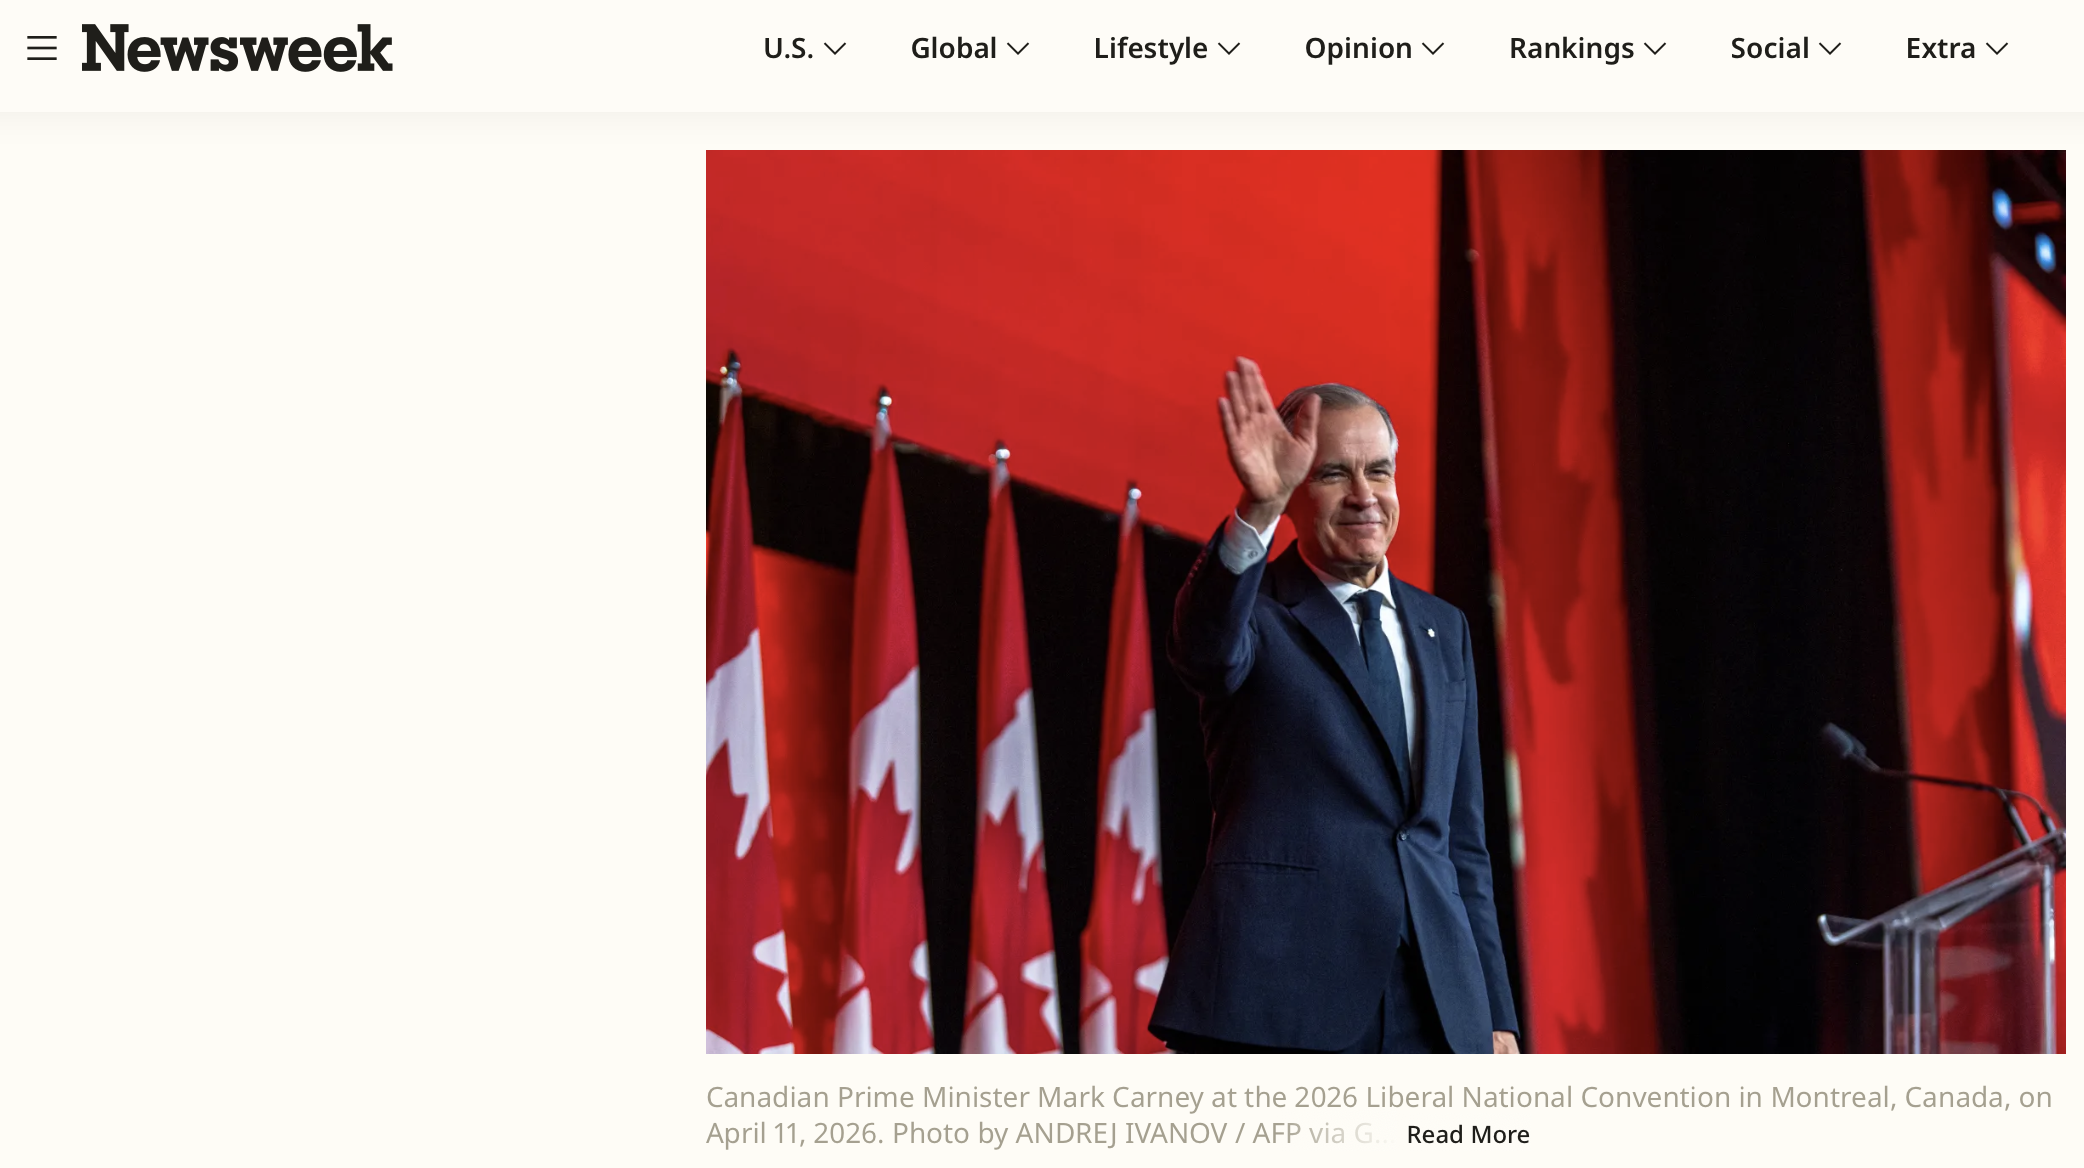
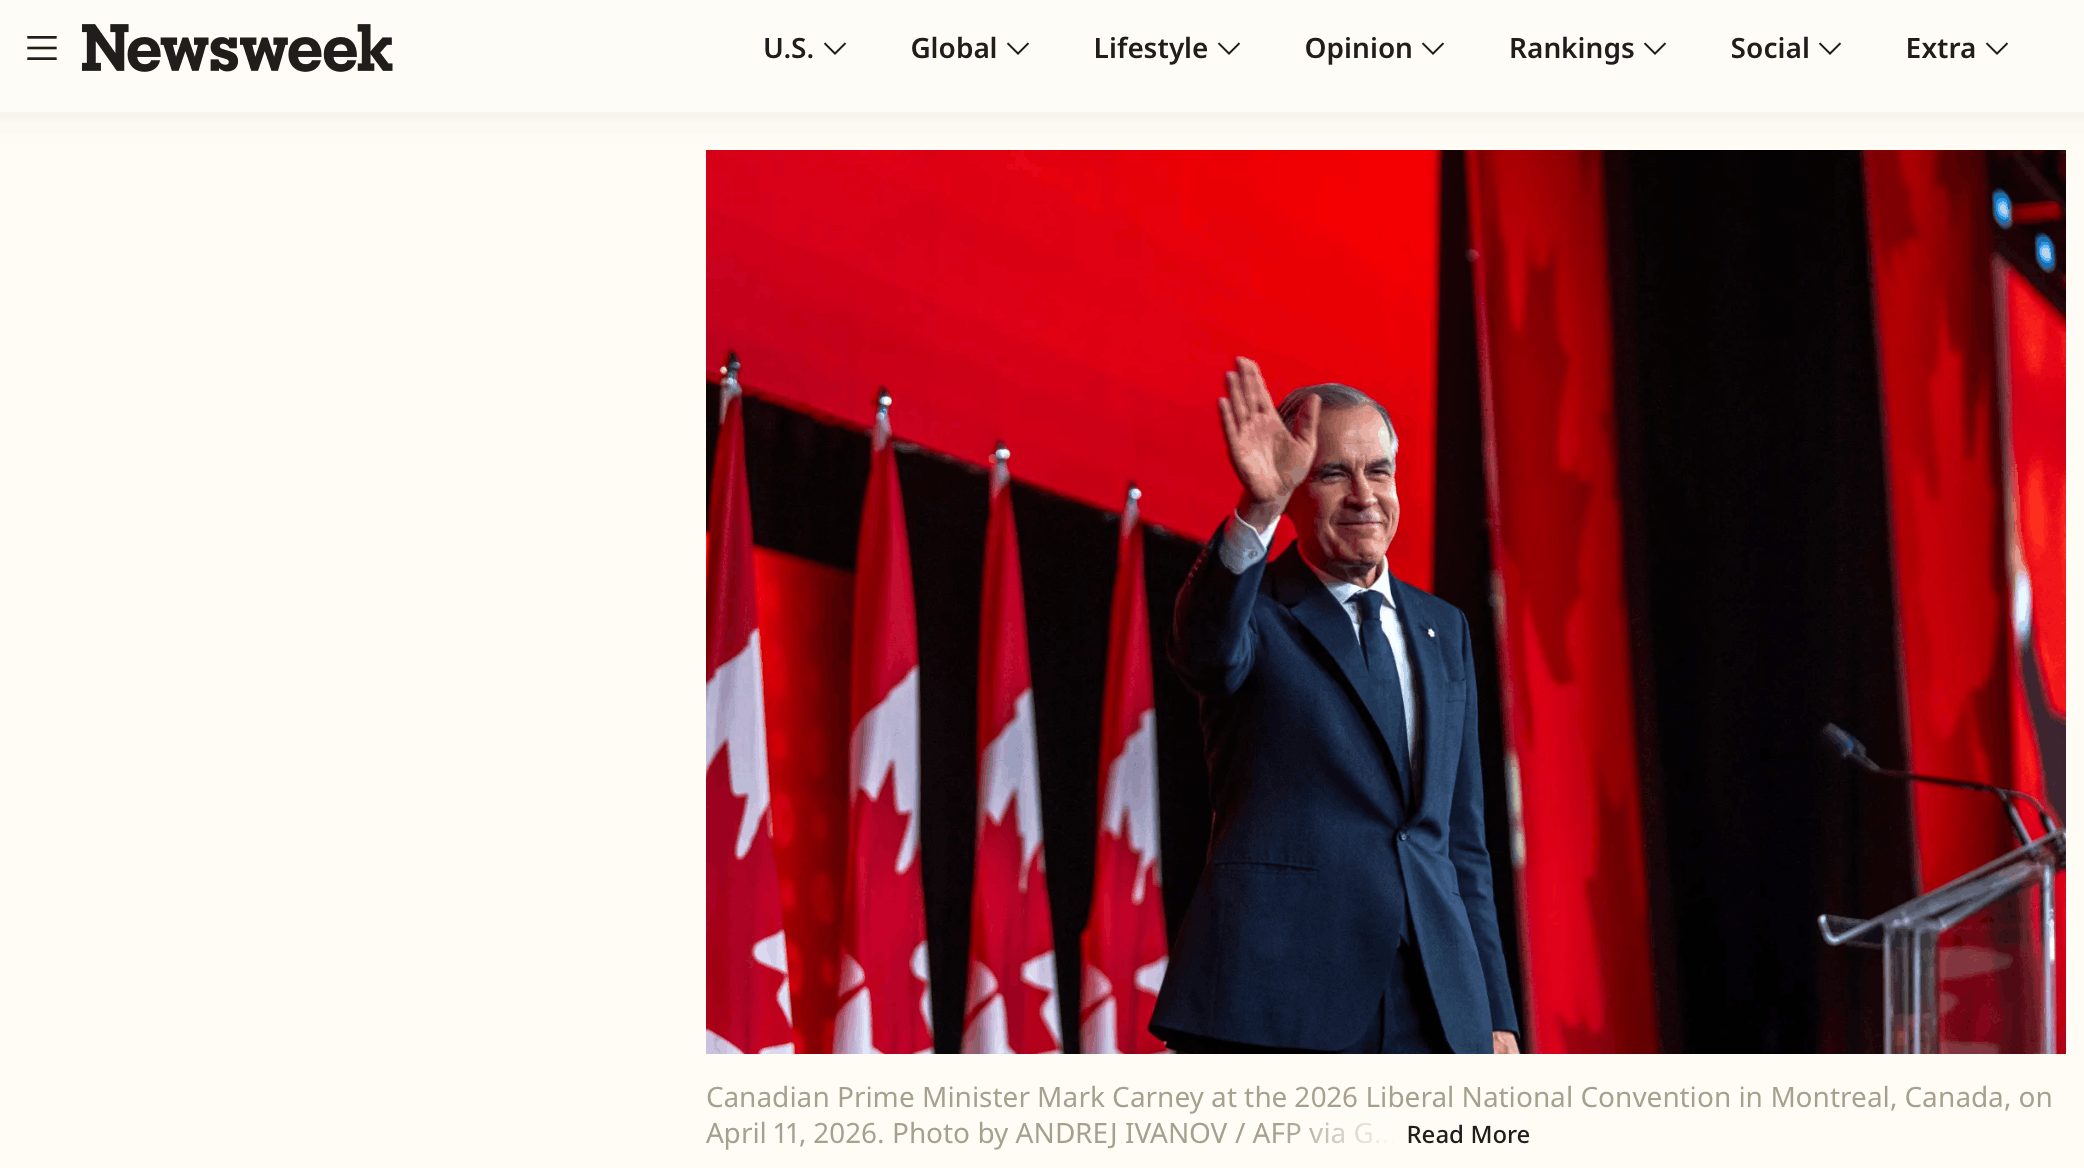
Image optimisation

Changed region(s): [[0.3119, 0.1233, 0.7798, 0.9247], [0.9045, 0.1233, 0.9981, 0.7705], [0.9669, 0.7397, 0.9981, 0.8938]]

diff --git a/fr/outreach/newsweek/index.html b/fr/outreach/newsweek/index.html
@@ -451,7 +451,7 @@
 
 
 <div class="article-header d-xl-none">
-  <div class="featured-image" style="background-image: url('/outreach/newsweek/featured_hub666ba951d084e9fdf59635035bb7fd2_1375300_800x0_resize_lanczos_3.png');"></div>
+  <div class="featured-image" style="background-image: url('/outreach/newsweek/featured_hu52a5c577396457762d7fbb5a17951969_268782_800x0_resize_lanczos_3.png');"></div>
   
 </div>
 
@@ -597,7 +597,7 @@
     </div>
     <div class="col-6">
       <div class="split-header-image">
-        <img src="/outreach/newsweek/featured_hub666ba951d084e9fdf59635035bb7fd2_1375300_680x500_fill_q90_lanczos_smart1_3.png" itemprop="image" alt="">
+        <img src="/outreach/newsweek/featured_hu52a5c577396457762d7fbb5a17951969_268782_680x500_fill_q90_lanczos_smart1_3.png" itemprop="image" alt="">
         
       </div>
     </div>

diff --git a/outreach/newsweek/index.html b/outreach/newsweek/index.html
@@ -449,7 +449,7 @@
 
 
 <div class="article-header d-xl-none">
-  <div class="featured-image" style="background-image: url('/outreach/newsweek/featured_hub666ba951d084e9fdf59635035bb7fd2_1375300_800x0_resize_lanczos_3.png');"></div>
+  <div class="featured-image" style="background-image: url('/outreach/newsweek/featured_hu52a5c577396457762d7fbb5a17951969_268782_800x0_resize_lanczos_3.png');"></div>
   
 </div>
 
@@ -595,7 +595,7 @@
     </div>
     <div class="col-6">
       <div class="split-header-image">
-        <img src="/outreach/newsweek/featured_hub666ba951d084e9fdf59635035bb7fd2_1375300_680x500_fill_q90_lanczos_smart1_3.png" itemprop="image" alt="">
+        <img src="/outreach/newsweek/featured_hu52a5c577396457762d7fbb5a17951969_268782_680x500_fill_q90_lanczos_smart1_3.png" itemprop="image" alt="">
         
       </div>
     </div>

diff --git a/fr/index.html b/fr/index.html
@@ -780,7 +780,7 @@
     
     
     <a href="https://www.newsweek.com/mark-carney-scores-major-election-victory-in-canada-11820500" target="_blank" rel="noopener" class="card-image hover-overlay">
-      <img src="/outreach/newsweek/featured_hub666ba951d084e9fdf59635035bb7fd2_1375300_550x0_resize_q90_lanczos_3.png" alt="" class="img-responsive" loading="lazy" decoding="async">
+      <img src="/outreach/newsweek/featured_hu52a5c577396457762d7fbb5a17951969_268782_550x0_resize_q90_lanczos_3.png" alt="" class="img-responsive" loading="lazy" decoding="async">
     </a>
     
     <div class="card-text">

diff --git a/index.html b/index.html
@@ -784,7 +784,7 @@
     
     
     <a href="https://www.newsweek.com/mark-carney-scores-major-election-victory-in-canada-11820500" target="_blank" rel="noopener" class="card-image hover-overlay">
-      <img src="/outreach/newsweek/featured_hub666ba951d084e9fdf59635035bb7fd2_1375300_550x0_resize_q90_lanczos_3.png" alt="" class="img-responsive" loading="lazy" decoding="async">
+      <img src="/outreach/newsweek/featured_hu52a5c577396457762d7fbb5a17951969_268782_550x0_resize_q90_lanczos_3.png" alt="" class="img-responsive" loading="lazy" decoding="async">
     </a>
     
     <div class="card-text">
